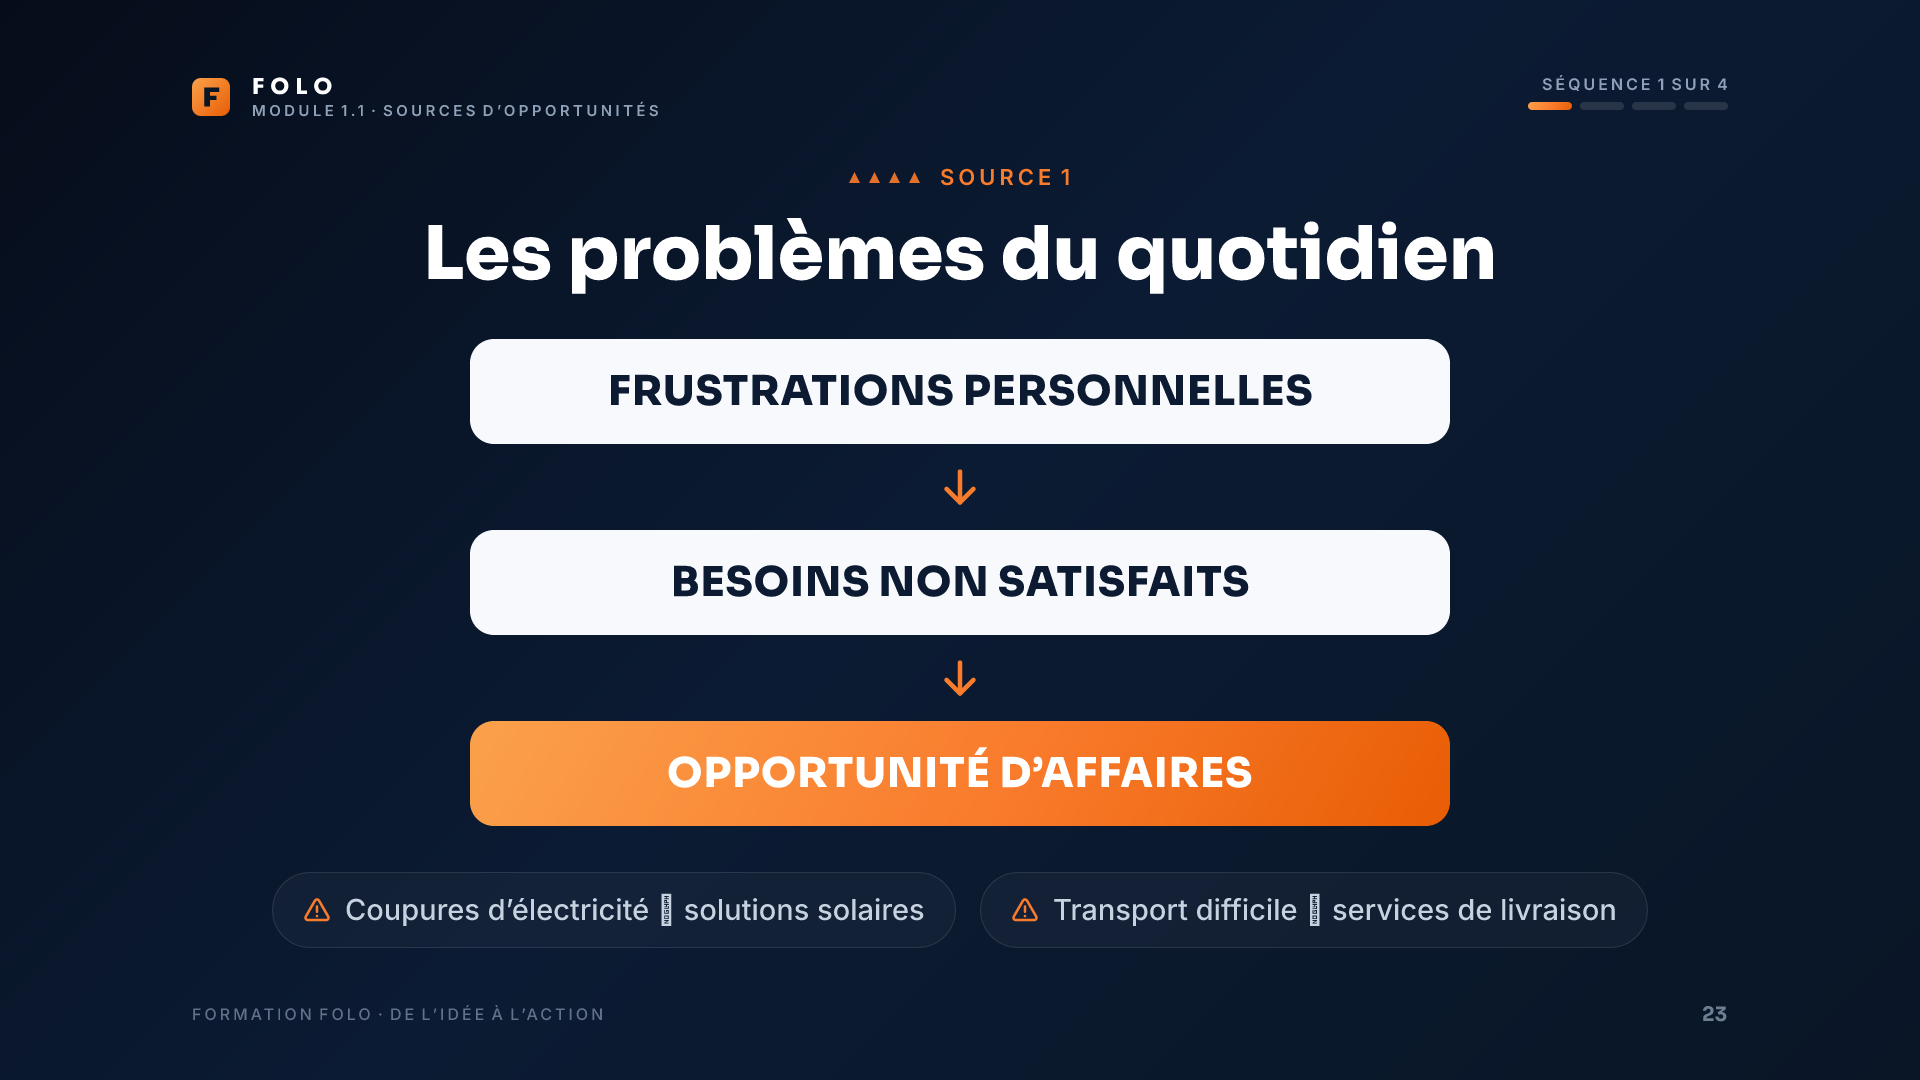
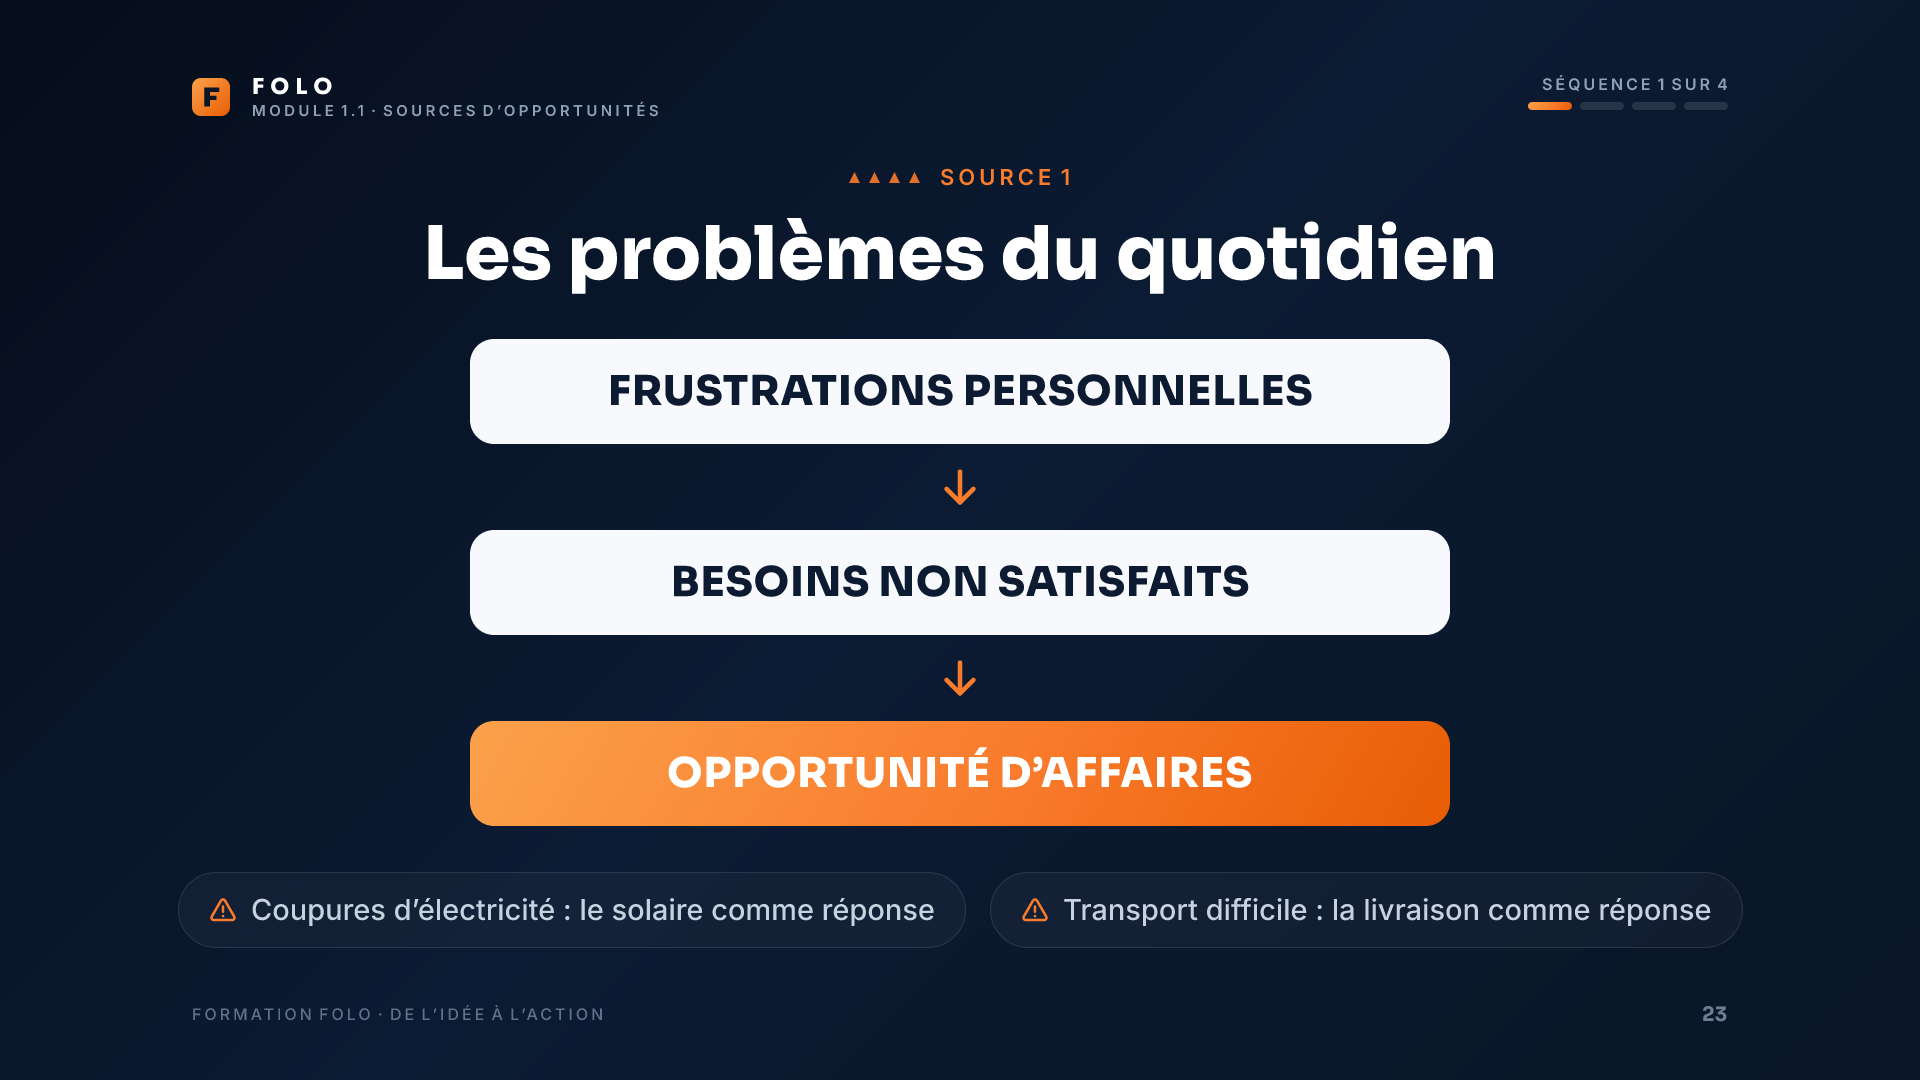
FOLO hygiène: orphelin 41.png supprimé, tofu slide 23 corrigé, verrous integrity+glyphes, master production

Changed region(s): [[0.0938, 0.825, 0.5, 0.8556], [0.5312, 0.825, 0.9062, 0.8556]]

diff --git a/formation-folo/src/slides/lot03.js b/formation-folo/src/slides/lot03.js
@@ -107,11 +107,11 @@ export function slide23() {
       d({ display: 'flex', flexDirection: 'row', justifyContent: 'center', gap: 24, marginTop: 46 }, [
         d({ ...panel(), display: 'flex', flexDirection: 'row', alignItems: 'center', gap: 14, padding: '18px 30px', borderRadius: 999 }, [
           icon('alert', 28, ORANGE, 2.2),
-          d({ fontFamily: F.body, fontWeight: 500, fontSize: 29, color: C.grey, lineHeight: 1.3 }, 'Coupures d\u2019électricité → solutions solaires'),
+          d({ fontFamily: F.body, fontWeight: 500, fontSize: 29, color: C.grey, lineHeight: 1.3 }, 'Coupures d\u2019électricité : le solaire comme réponse'),
         ]),
         d({ ...panel(), display: 'flex', flexDirection: 'row', alignItems: 'center', gap: 14, padding: '18px 30px', borderRadius: 999 }, [
           icon('alert', 28, ORANGE, 2.2),
-          d({ fontFamily: F.body, fontWeight: 500, fontSize: 29, color: C.grey, lineHeight: 1.3 }, 'Transport difficile → services de livraison'),
+          d({ fontFamily: F.body, fontWeight: 500, fontSize: 29, color: C.grey, lineHeight: 1.3 }, 'Transport difficile : la livraison comme réponse'),
         ]),
       ]),
     ],

diff --git a/formation-folo/docs/15-master-production.md b/formation-folo/docs/15-master-production.md
@@ -1,0 +1,57 @@
+# FOLO — Master de production (numérotation, statuts, promesses)
+**Document vivant : mis à jour à chaque lot. Source de vérité doc ↔ fichiers.**
+**Verrous automatisés associés : `scripts/integrity.mjs`, `scripts/glyphes.mjs`.**
+
+---
+
+## 1. Numérotation générale (fichiers = numéros imprimés)
+
+| Plage | Lot | Contenu | Statut visuel |
+|---|---|---|---|
+| 01-10 | lot01 | Introduction générale + socle du module 1 (charte desktop v1) | Validé · conservé |
+| 11-20 | lot02 | Séquence 1.1 — édition desktop v1 | Validé · **version alternative** (remplacée comme standard par 21-30) |
+| 21-30 | lot03 | Séquence 1.1 — **édition mobile (standard)** | Validé · standard |
+| 31-41 | lot04 | Séquence 1.2 — édition mobile (11 slides, scission design thinking) | Validé · standard |
+| 42-52 | lot05 | Séquence 1.3 — édition mobile (11 slides, scission critères FOLO) | Validé · standard |
+| 53-62 | lot06 | Séquence 1.4 « Du problème au test » — édition mobile | **À PRODUIRE** |
+
+Règle : toute future scission/renumérotation = mise à jour du présent master
++ exécution `integrity.mjs` + suppression des orphelins + commit.
+
+Couverture (01) : seule slide sans propriété `page:` (connu et accepté par integrity.mjs).
+
+## 2. Statuts de reprise (issus de l'audit de continuation, doc 14)
+
+- **DÉJÀ VALIDÉ** : docs 01-14 ; design system (`theme/ds/dsm/el/icons`) ; pipeline de
+  rendu ; 52 slides ; chartes v1 + rév. 1 (+15 %) + rév. 2 (Mobile First) ; portrait
+  `assets/fatou.jpg` ; historique git par lot.
+- **À CONTRÔLER** (soldé par le présent master) : statut desktop 11-20 documenté
+  ci-dessus ; cohérence doc ↔ fichiers vérifiée par integrity.mjs (OK).
+- **À CORRIGER** (soldé en phase hygiène) : orphelin `lot05/41.png` supprimé ;
+  glyphe tofu « → » de la slide 23 remplacé (« : le solaire comme réponse ») ;
+  verrous integrity + glyphes créés et au vert.
+- **À REFAIRE** : rien.
+- **À PRODUIRE** : lot 6 (53-62) ; puis ressources §3 ; puis voix-off/kit vidéo ;
+  modules 2+ (5 prototypes par nouvelle famille visuelle).
+
+## 3. Registre des promesses (chaque « Télécharger X » = ticket)
+
+| Ressource | Annoncée aux slides | Statut |
+|---|---|---|
+| Fiche exercice « 3 problèmes » | 15, 24 | À PRODUIRE (PDF) |
+| Grille d'idéation | 20, 29 | À PRODUIRE (PDF) |
+| Fiche d'évaluation des compétences | 18, 27 | À PRODUIRE (PDF) |
+| Guide d'entretien utilisateur | 37, 38 | À PRODUIRE (PDF) |
+| Canvas design thinking | 38 | À PRODUIRE (PDF) |
+| Grille FOLO de notation | 46 | À PRODUIRE (PDF) |
+
+Règle : un module n'est « terminé » que lorsque son registre de promesses est soldé.
+
+## 4. Journal des verrous
+
+- integrity.mjs : fichiers attendus vs présents (trous/orphelins), `page:` vs plages,
+  comptes — au vert le [date de la phase hygiène].
+- glyphes.mjs : liste noire (≈ ≠ ≤ ≥ œ Œ flèches ★ € £ ¥ ✓ ✗ + plages emojis) sur les
+  textes rendus (commentaires exclus) + règle « pas de trait d'union + espace en
+  capitales » — au vert après correction slide 23.
+- À exécuter AVANT chaque validation de lot et après toute renumérotation.
